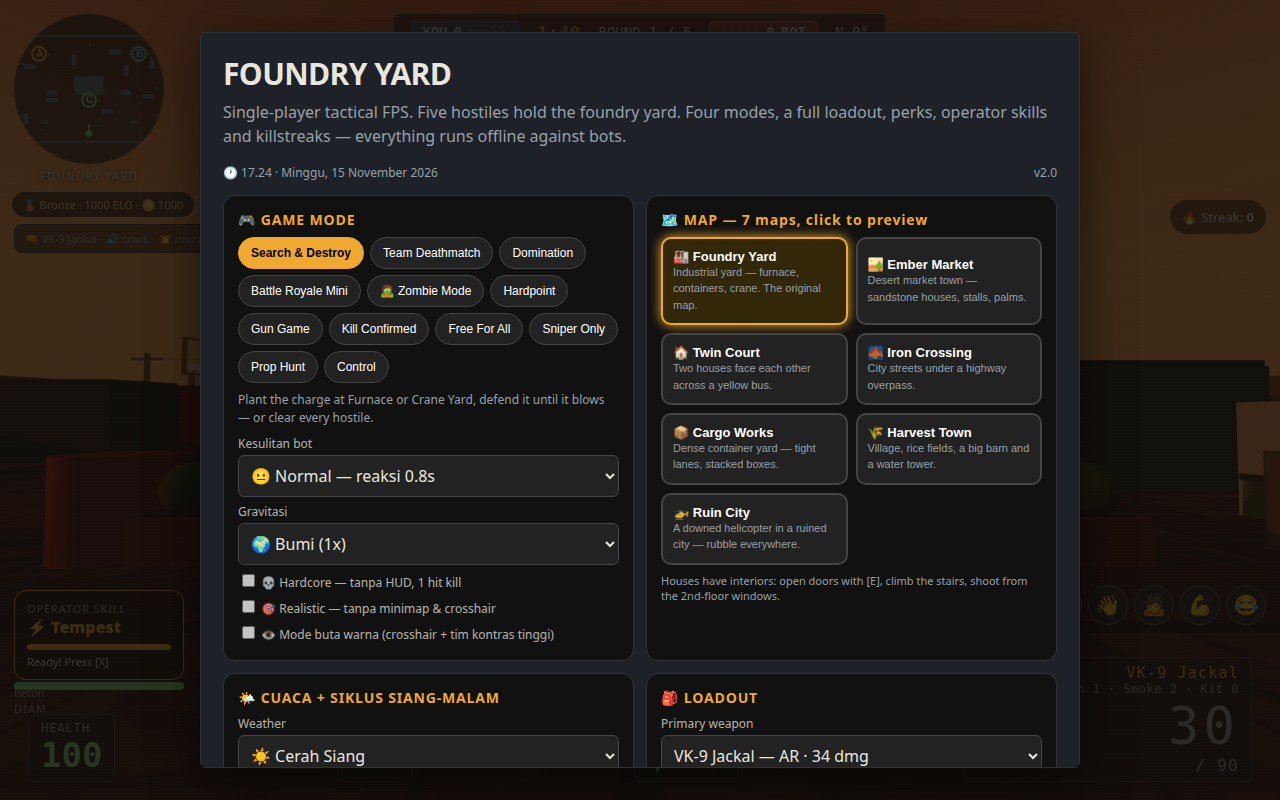
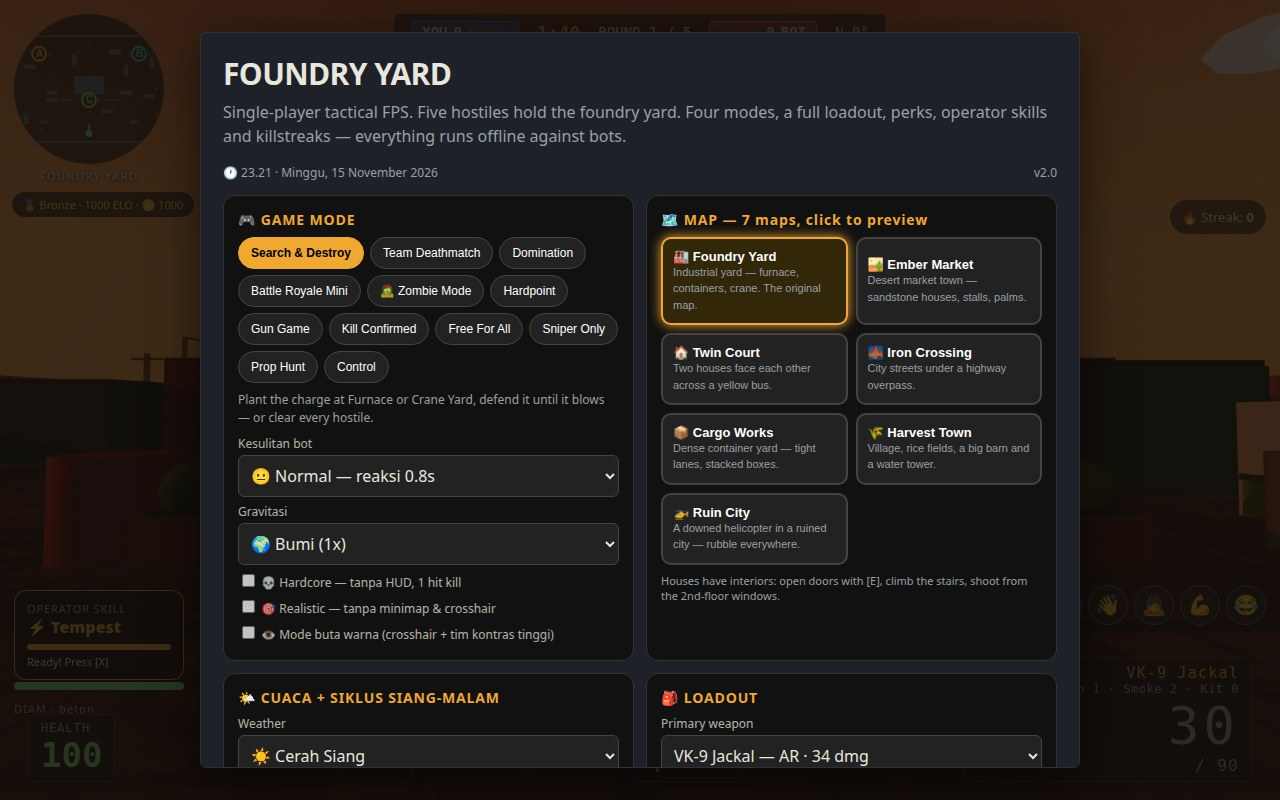
forge-fps walls/boxes/map pass: realistic red-brick walls (shared procedural texture, all maps), wood crates with FY-4/FY-7 + KEEP DRY stencils, hazard gate barriers, Foundry Yard rework (brick gate walls with giant painted SITE A — FURNACE / SITE B — CRANE YARD letters, tidy grid-aligned crates + 2

diff --git a/game/src/props.js b/game/src/props.js
@@ -267,6 +267,102 @@ export function createProps(scene, colliders, shootables, doors, levels, stairs)
   function mat(color, rough = 0.9, extra = {}) {
     return new THREE.MeshStandardMaterial({ color, roughness: rough, metalness: 0.08, ...extra });
   }
+  // ---- Shared procedural textures (built once per world, reused by every
+  // map — one canvas per texture, never one per prop). All variation comes
+  // from an index hash, NEVER from a random call, so the deterministic
+  // gameplay sequence is untouched.
+  function ptex(size, draw, rx = 1, ry = 1) {
+    const c = document.createElement('canvas');
+    c.width = c.height = size;
+    draw(c.getContext('2d'), size);
+    const t = new THREE.CanvasTexture(c);
+    t.wrapS = t.wrapT = THREE.RepeatWrapping;
+    t.repeat.set(rx, ry);
+    t.colorSpace = THREE.SRGBColorSpace;
+    return t;
+  }
+  const _hash = (i) => (((i * 2654435761) >>> 0) % 1000) / 1000;
+  // Red brick wall: running-bond courses, mortar joints, per-brick colour
+  // variation + grime. Tile = 2.5m wide x 4m tall at repeat (32,1) on an
+  // 80m wall, so one brick reads ~0.6m x 0.25m at play distance.
+  let _brickTex = null;
+  function brickTexture() {
+    if (_brickTex) return _brickTex;
+    _brickTex = ptex(256, (g, s) => {
+      g.fillStyle = '#a89a86'; g.fillRect(0, 0, s, s); // mortar
+      const shades = ['#8a3b28', '#96422e', '#7c3323', '#a34a33', '#8f4030', '#74301f', '#5f2a1c'];
+      const bw = 64, bh = 16;
+      for (let row = 0; row < 16; row++) {
+        const off = (row % 2) * (bw / 2);
+        for (let cx = -1; cx < 5; cx++) {
+          const h = _hash(row * 7 + cx * 13 + 3);
+          g.fillStyle = shades[Math.floor(h * shades.length)];
+          g.fillRect(cx * bw + off + 1, row * bh + 1, bw - 2, bh - 2);
+          // per-brick tone: lighter top edge, darker bottom edge
+          g.fillStyle = h < 0.5 ? 'rgba(255,220,190,0.10)' : 'rgba(0,0,0,0.12)';
+          g.fillRect(cx * bw + off + 1, row * bh + 1, bw - 2, 5);
+          g.fillStyle = 'rgba(0,0,0,0.18)';
+          g.fillRect(cx * bw + off + 1, row * bh + bh - 5, bw - 2, 4);
+        }
+      }
+      // grime blotches (index-hash positions only)
+      for (let i = 0; i < 7; i++) {
+        const x = (i * 97 + 31) % 256, y = (i * 57 + 113) % 256, r = 20 + (i * 37) % 40;
+        const gr = g.createRadialGradient(x, y, 0, x, y, r);
+        gr.addColorStop(0, 'rgba(30,20,12,0.28)'); gr.addColorStop(1, 'rgba(0,0,0,0)');
+        g.fillStyle = gr; g.beginPath(); g.arc(x, y, r, 0, 7); g.fill();
+      }
+    }, 32, 1);
+    return _brickTex;
+  }
+  // Wooden supply crate: horizontal planks + grain + stencilled code.
+  // Two shared variants (FY-4 / FY-7) cover every crate on every map.
+  const _crateTex = {};
+  function crateTexture(code = 'FY-4') {
+    if (_crateTex[code]) return _crateTex[code];
+    const tex = ptex(256, (g, s) => {
+      g.fillStyle = '#8a6f4a'; g.fillRect(0, 0, s, s);
+      for (let p = 0; p < 4; p++) {
+        const y = p * 64;
+        const h = _hash(p * 11 + 5);
+        g.fillStyle = h < 0.5 ? '#93784f' : '#7d6242';
+        g.fillRect(0, y + 2, s, 60);
+        g.strokeStyle = 'rgba(40,26,12,0.8)'; g.lineWidth = 3;
+        g.strokeRect(-2, y + 1, s + 4, 62);
+        // grain lines (index-hash only)
+        g.strokeStyle = 'rgba(60,40,18,0.45)'; g.lineWidth = 1.5;
+        for (let k = 0; k < 3; k++) {
+          const gy = y + 12 + ((p * 7 + k * 23) % 44);
+          g.beginPath(); g.moveTo(0, gy);
+          g.bezierCurveTo(80, gy + 4, 170, gy - 4, s, gy + 2); g.stroke();
+        }
+        // nail dots
+        g.fillStyle = 'rgba(30,20,10,0.7)';
+        g.beginPath(); g.arc(12, y + 32, 3, 0, 7); g.arc(s - 12, y + 32, 3, 0, 7); g.fill();
+      }
+      // frame battens + stencil
+      g.strokeStyle = 'rgba(52,36,16,0.9)'; g.lineWidth = 8;
+      g.strokeRect(6, 6, s - 12, s - 12);
+      g.fillStyle = 'rgba(30,22,10,0.85)'; g.textAlign = 'center';
+      g.font = 'bold 64px Arial'; g.fillText(code, s / 2, s / 2 + 8);
+      g.font = 'bold 26px Arial'; g.fillText('KEEP DRY', s / 2, s / 2 + 52);
+    }, 1, 1);
+    _crateTex[code] = tex;
+    return tex;
+  }
+  // Hazard stripes (yellow/black diagonal) for gate barriers.
+  let _hazardTex = null;
+  function hazardTexture() {
+    if (_hazardTex) return _hazardTex;
+    _hazardTex = ptex(128, (g, s) => {
+      g.fillStyle = '#f0a830'; g.fillRect(0, 0, s, s);
+      g.fillStyle = '#14161a';
+      for (let x = -s; x < s * 2; x += 32) {
+        g.beginPath(); g.moveTo(x, 0); g.lineTo(x + 16, 0); g.lineTo(x + 16 - s, s); g.lineTo(x - s, s); g.fill();
+      }
+    }, 4, 1);
+    return _hazardTex;
+  }
   function box(w, h, d, color, extra = {}) {
     const m = new THREE.Mesh(new THREE.BoxGeometry(w, h, d), mat(color, 0.9, extra));
     m.castShadow = true; m.receiveShadow = true;
@@ -351,16 +447,73 @@ export function createProps(scene, colliders, shootables, doors, levels, stairs)
     }
     return m;
   }
-  function addCrate(x, z, s = 1.6) {
-    const m = box(s, 1.1, s, 0x8a6f4a);
-    m.position.set(x, 0.55, z); group.add(m); shootable(m, 'wood');
-    solid(x - s / 2, z - s / 2, x + s / 2, z + s / 2, 0, 1.1);
+  // Wooden crate with plank + stencil texture (shared FY-4 / FY-7
+  // variants). code: stencil code; y: base height (1.1 = stacked on a crate).
+  function addCrate(x, z, s = 1.6, code = 'FY-4', y = 0) {
+    const m = new THREE.Mesh(new THREE.BoxGeometry(s, 1.1, s),
+      mat(0xffffff, 0.9, { map: crateTexture(code) }));
+    m.castShadow = true; m.receiveShadow = true;
+    m.position.set(x, y + 0.55, z); group.add(m); shootable(m, 'wood');
+    solid(x - s / 2, z - s / 2, x + s / 2, z + s / 2, y, y + 1.1);
     // cross planks on top
     for (const a of [0.5, -0.5]) {
       const p = box(s * 1.1, 0.06, 0.18, 0x6b5636);
-      p.position.set(x, 1.12, z); p.rotation.y = a; group.add(p);
+      p.position.set(x, y + 1.12, z); p.rotation.y = a; group.add(p);
     }
     return m;
+  }
+  // Brick wall segment (red brick texture, shared with the perimeter
+  // walls). rot 0 = spans x; rot 90 = spans z. h defaults to 3.5m.
+  function addBrickWall(x, z, w, d, h = 3.5, o = {}) {
+    const rot = o.rot || 0;
+    const m = new THREE.Mesh(new THREE.BoxGeometry(w, h, d),
+      mat(0xffffff, 0.9, { map: brickTexture() }));
+    m.castShadow = true; m.receiveShadow = true;
+    m.position.set(x, h / 2, z); m.rotation.y = rot;
+    group.add(m); shootable(m, 'wall');
+    const hw = rot ? d / 2 : w / 2, hd = rot ? w / 2 : d / 2;
+    solid(x - hw, z - hd, x + hw, z + hd, 0, h);
+    return m;
+  }
+  // Giant painted site letter on a wall face (like the reference's big "B"):
+  // transparent canvas, bold letter + site name under it, no collider.
+  // rot 0 faces +z (south, toward the player spawn); rot Math.PI faces -z.
+  function addWallLetter(x, z, rot = 0, letter = 'A', sub = 'FURNACE', color = '#f0a830') {
+    const cv = document.createElement('canvas'); cv.width = 256; cv.height = 256;
+    const g = cv.getContext('2d');
+    g.clearRect(0, 0, 256, 256);
+    g.textAlign = 'center';
+    g.font = 'bold 170px Arial';
+    g.lineWidth = 10; g.strokeStyle = 'rgba(20,12,6,0.85)';
+    g.strokeText(letter, 128, 168);
+    g.fillStyle = color; g.fillText(letter, 128, 168);
+    g.font = 'bold 30px Arial';
+    g.lineWidth = 6; g.strokeText(sub, 128, 222);
+    g.fillStyle = '#ffffff'; g.fillText(sub, 128, 222);
+    const tex = new THREE.CanvasTexture(cv);
+    tex.colorSpace = THREE.SRGBColorSpace;
+    const mesh = new THREE.Mesh(new THREE.PlaneGeometry(3.2, 3.2),
+      new THREE.MeshBasicMaterial({ map: tex, transparent: true }));
+    mesh.position.set(x, 2.1, z); mesh.rotation.y = rot; group.add(mesh);
+    mesh.userData.propType = 'wall-letter';
+    return mesh;
+  }
+  // Hazard-striped gate barrier: concrete block + yellow/black stripe band.
+  // rot 0 = spans x; rot 90 = spans z.
+  function addHazardBarrier(x, z, rot = 0) {
+    const g = new THREE.Group(); g.position.set(x, 0, z); g.rotation.y = rot; group.add(g);
+    const base = box(2.4, 0.9, 0.5, 0x6a655c); base.position.y = 0.45; g.add(base); shootable(base, 'wall');
+    const band = new THREE.Mesh(new THREE.BoxGeometry(2.42, 0.34, 0.52),
+      mat(0xffffff, 0.7, { map: hazardTexture() }));
+    band.position.y = 0.62; band.castShadow = true; g.add(band);
+    const cap = box(2.4, 0.08, 0.54, 0x3a3f44); cap.position.y = 0.94; g.add(cap);
+    for (const s of [-1, 1]) {
+      const foot = box(0.5, 0.14, 0.7, 0x3a3f44);
+      foot.position.set(s * 0.9, 0.07, 0); g.add(foot);
+    }
+    const hw = rot ? 0.35 : 1.2, hd = rot ? 1.2 : 0.35;
+    solid(x - hw, z - hd, x + hw, z + hd, 0, 1.0);
+    return g;
   }
   function addBarrel(x, z, color = 0x8a4a22) {
     const m = new THREE.Mesh(new THREE.CylinderGeometry(0.55, 0.55, 1.15, 12), mat(color, 0.7));
@@ -1984,6 +2137,7 @@ export function createProps(scene, colliders, shootables, doors, levels, stairs)
     addCart, addSuitcase, addDummy, addParkedCar, addMotorParked,
     addAnimal, addNPC, addFridge, addStove, addSafe, addWardrobe,
     addCropPatch, addFruitTree,
+    addBrickWall, addWallLetter, addHazardBarrier, brickTexture,
     propFall, setLightsOut, dropLeaves, recolor, setSeason, setLightColor,
     animateDecor, decorCounts, destructibles, houseRects, pools,
     treeRecs, flowerSpots, ammoBoxes, lifts, mudRects, lootCrates,

diff --git a/game/src/world.js b/game/src/world.js
@@ -122,22 +122,6 @@ function concreteTex(rng) {
     }
   }, 16, 12);
 }
-function metalTex(rng) {
-  return canvasTex(256, (g, s) => {
-    g.fillStyle = '#5c6b70'; g.fillRect(0, 0, s, s);
-    speckle(g, s, 500, ['#46545a', '#6e7d83', '#3d484d'], 1, 3, rng);
-    // panel seams + rivets
-    g.strokeStyle = 'rgba(20,24,26,0.7)'; g.lineWidth = 2;
-    for (let y = 0; y <= s; y += 64) { g.beginPath(); g.moveTo(0, y); g.lineTo(s, y); g.stroke(); }
-    g.fillStyle = 'rgba(20,24,26,0.8)';
-    for (let y = 32; y < s; y += 64) for (let x = 16; x < s; x += 32) {
-      g.beginPath(); g.arc(x, y, 3, 0, 7); g.fill();
-    }
-    // rust streaks
-    g.fillStyle = 'rgba(138,74,34,0.35)';
-    for (let i = 0; i < 8; i++) g.fillRect(rng() * s, rng() * s, 3 + rng() * 5, 20 + rng() * 50);
-  }, 2, 2);
-}
 function hazardTex() {
   return canvasTex(128, (g, s) => {
     g.fillStyle = '#f0a830'; g.fillRect(0, 0, s, s);
@@ -227,8 +211,13 @@ export function buildWorld(scene) {
     p.rotation.x = -Math.PI / 2; p.position.set(-36 + (i * 37 % 72), 0.01, -24 + (i * 29 % 48)); scene.add(p);
   }
 
-  // Perimeter walls (h 4) — metal panels
-  const wallTex = metalTex(rng);
+  // ---- Map system: props / waypoints / spawns rebuilt per map ----
+  // Created BEFORE the perimeter walls so the walls can use the shared
+  // brick texture from props (one canvas, reused by every map).
+  const props = createProps(scene, colliders, shootables, doors, levels, stairs);
+
+  // Perimeter walls (h 4) — red brick (shared props texture, one canvas).
+  const wallTex = props.brickTexture();
   const wallM = mat(0xffffff, 0.85, wallTex);
   const mkWall = (w, d, x, z) => { const m = new THREE.Mesh(new THREE.BoxGeometry(w, 4, d), wallM); m.position.y = 2; m.castShadow = true; m.receiveShadow = true; add(m, x, z, w, d, 4); };
   mkWall(W, 1, 0, -28.5); mkWall(W, 1, 0, 28.5); mkWall(1, D, -40.5, 0); mkWall(1, D, 40.5, 0);
@@ -275,7 +264,7 @@ export function buildWorld(scene) {
   const glowM = new THREE.PointLight(0xffa040, 20, 18); glowM.position.set(0, 2, 4); scene.add(glowM);
 
   // ---- Map system: props / waypoints / spawns rebuilt per map ----
-  const props = createProps(scene, colliders, shootables, doors, levels, stairs);
+  // (props created above, before the perimeter walls, for brickTexture)
   const waypoints = [...WAYPOINTS];
   const spawns = { player: { ...SPAWNS.player }, bots: SPAWNS.bots.map(s => ({ ...s })) };
   let mapId = 'foundry';

diff --git a/game/src/hud.js b/game/src/hud.js
@@ -3,7 +3,6 @@
 // calling-card styled killfeed, battle-pass menu rendering.
 import { STREAK_DEFS, MODE_DEFS, OPERATOR_DEFS, MYTHIC_DEFS, EMOTE_DEFS } from './state.js';
 import { MAP_DEFS } from './maps.js';
-import { fxFor } from './weaponfx.js';
 import { xpInTier, missionList } from './battlepass.js';
 
 export function createHud(S) {
@@ -92,21 +91,19 @@ export function createHud(S) {
     } else if (el.reloadBar) el.reloadBar.hidden = true;
     // Stamina bar + movement status + surface (v22.6.4).
     if (el.staminaFill) el.staminaFill.style.width = Math.round(Math.max(0, Math.min(100, S.stamina ?? 100))) + '%';
-    if (el.moveStatus) el.moveStatus.textContent = S.moveStatus || 'DIAM';
-    if (el.surfaceLabel) {
+    // Movement + surface as ONE tidy chip (was two stacked labels).
+    if (el.moveStatus) {
       const surfName = { concrete: 'beton', wood: 'kayu', grass: 'rumput', sand: 'pasir', snow: 'salju', metal: 'besi', water: 'air', mud: 'lumpur', stairs: 'tangga' };
-      el.surfaceLabel.textContent = surfName[S.surface] || S.surface || 'beton';
+      el.moveStatus.textContent = `${S.moveStatus || 'DIAM'} · ${surfName[S.surface] || S.surface || 'beton'}`;
     }
     // Crosshair pulse while firing (v18.1.16) + lock when aiming at a bot (v18.2).
     if (el.crosshair) {
       el.crosshair.classList.toggle('pulse', !!S.crossPulse);
       el.crosshair.classList.toggle('lock', !!S.crossLock);
     }
-    // Weapon FX panel (v22.1.7): active weapon + muzzle + recoil + barrel heat.
-    if (el.weaponFx) {
-      const fx = fxFor(w.id);
-      el.weaponFx.textContent = `🔫 ${w.name} · 🔊 ${fx.sound.pattern} · 💥 muzzle #${fx.muzzle.color.toString(16).padStart(6, '0')} · recoil ${fx.recoil.up}/${fx.recoil.side}${w.barrelHot ? ' · 🌡 BARREL PANAS!' : ''}`;
-    }
+    // Weapon FX panel removed from the play HUD (debug read-out: sound
+    // pattern, muzzle hex, recoil numbers). Element stays in the DOM.
+    if (el.weaponFx) el.weaponFx.style.display = 'none';
     // Night vision / thermal overlays (v27.0) + rain on lens (v28.0.3).
     if (el.nvOverlay) el.nvOverlay.classList.toggle('on', !!S.nightVision);
     if (el.thermalOverlay) el.thermalOverlay.classList.toggle('on', !!S.thermal);

diff --git a/game/src/maps.js b/game/src/maps.js
@@ -61,7 +61,23 @@ export const MAP_DEFS = {
       api.addContainer(-34, 16, 2.5, 6, 0x2a5a8a);
       api.addContainer(34, -14, 2.5, 6, 0x2a5a8a);
       api.addContainer(14, -20, 6, 2.5, 0x8a2a2a, { stack: true, stackColor: 0x5a7a3a });
-      scatterCrates(api, [[-12, 8], [-11, 8], [12, 6], [0, 14], [-4, -12], [24, 12], [-24, -2], [6, -14], [-27, -10], [27, -10], [-16, 20], [16, 20], [0, -22]]);
+      // Brick gate walls (reference look): two wall stubs flanking the mid
+      // lane, giant painted site letters on their south faces, hazard
+      // barriers framing the gate. Wide gaps at both ends keep every lane
+      // open (bots slide around the ends; stuckT retargets after 2s).
+      api.addBrickWall(-12.5, 6, 7, 1, 3.5);
+      api.addWallLetter(-12.5, 6.56, 0, 'A', 'FURNACE', '#f0a830');
+      api.addBrickWall(12.5, 6, 7, 1, 3.5);
+      api.addWallLetter(12.5, 6.56, 0, 'B', 'CRANE YARD', '#37c8d8');
+      api.addHazardBarrier(-8.5, 6, Math.PI / 2);
+      api.addHazardBarrier(8.5, 6, Math.PI / 2);
+      // Crates, grid-aligned (no overlaps): pairs 1.8m apart, plus a
+      // two-high stack at each site corner.
+      scatterCrates(api, [[-12, 8], [-10.2, 8], [12, 8], [13.8, 8], [0, 14], [-4, -12], [24, 12], [-24, -2], [6, -14], [-16, 20], [16, 20], [0, -22]]);
+      api.addCrate(-27, -10, 1.6, 'FY-7');
+      api.addCrate(-27, -10, 1.6, 'FY-7', 1.16);
+      api.addCrate(27, -10, 1.6, 'FY-7');
+      api.addCrate(27, -10, 1.6, 'FY-7', 1.16);
       scatterBarrels(api, [[-16, 4], [-15, 5], [16, -6], [26, 2], [-30, 2], [8, 18], [-6, 18], [30, -6]]);
       api.addSandbag(-23, -14); api.addSandbag(-21, -14);
       api.addSandbag(23, -14); api.addSandbag(21, -14);

diff --git a/game/src/main.js b/game/src/main.js
@@ -156,10 +156,12 @@ const bots = createBots(scene, world, S, rng, {
   // v23.0.5 Tracker: a bot that shoots at you is marked on the minimap.
   onBotShot: (b) => { S.trackMark = { x: b.x, z: b.z, t: 5 }; },
   // Radio callout: first sighting per 10s names the nearest site.
+  // The spotting bot also drops the same call into the team chat feed.
   onSpot: (b) => {
     if (S.time - (S.radioCdT || 0) < 10) return;
     S.radioCdT = S.time;
     hud.showRadio(`Contact at ${nearestSiteName(b.x, b.z)}, rotating`);
+    hud.chatLog(`BOT-${b.id + 1}: contact, ${nearestSiteName(b.x, b.z)}`);
   },
 });
 const economy = createEconomy();
@@ -1867,6 +1869,7 @@ function applyShotFx() {
   if (!shotFx) return;
   if (shotFx.radio) hud.showRadio(shotFx.radio);
   for (const k of shotFx.killfeed || []) hud.killfeed(k, shotFx.mythic);
+  for (const c of shotFx.comms || []) hud.chatLog(c);
   if (shotFx.hitmarker) hud.hitmarker(false, false, 60, 4000);
 }
 
@@ -1930,6 +1933,7 @@ function runShot(name) {
     shotFx = {
       radio: 'Contact at Mid Yard, rotating',
       killfeed: ['YOU — B12 Breacher @ BOT-1 — HIT', '🔥 KILLSTREAK READY: 🛰 UAV — click it!'],
+      comms: ['BOT-2: go go, executing B'],
       mythic: 'dragon',
       hitmarker: true,
     };

diff --git a/game/style.css b/game/style.css
@@ -274,7 +274,8 @@
 #stamina-bar{position:fixed;left:14px;bottom:110px;width:170px;height:8px;background:#222;border-radius:99px;overflow:hidden;z-index:5}
 #stamina-fill{height:100%;background:#7ddc7d;width:100%}
 #move-status{position:fixed;left:14px;bottom:84px;font-size:11px;color:var(--muted);letter-spacing:.1em;z-index:5}
-#surface-label{position:fixed;left:14px;bottom:100px;font-size:11px;color:var(--muted);z-index:5}
+#surface-label{display:none}
+#weapon-fx{display:none}
 #reload-bar{position:fixed;left:50%;top:58%;transform:translateX(-50%);width:220px;text-align:center;z-index:6}
 #reload-bar[hidden]{display:none}
 #reload-bar .track{height:8px;background:#2c323a;border-radius:99px;overflow:hidden}
